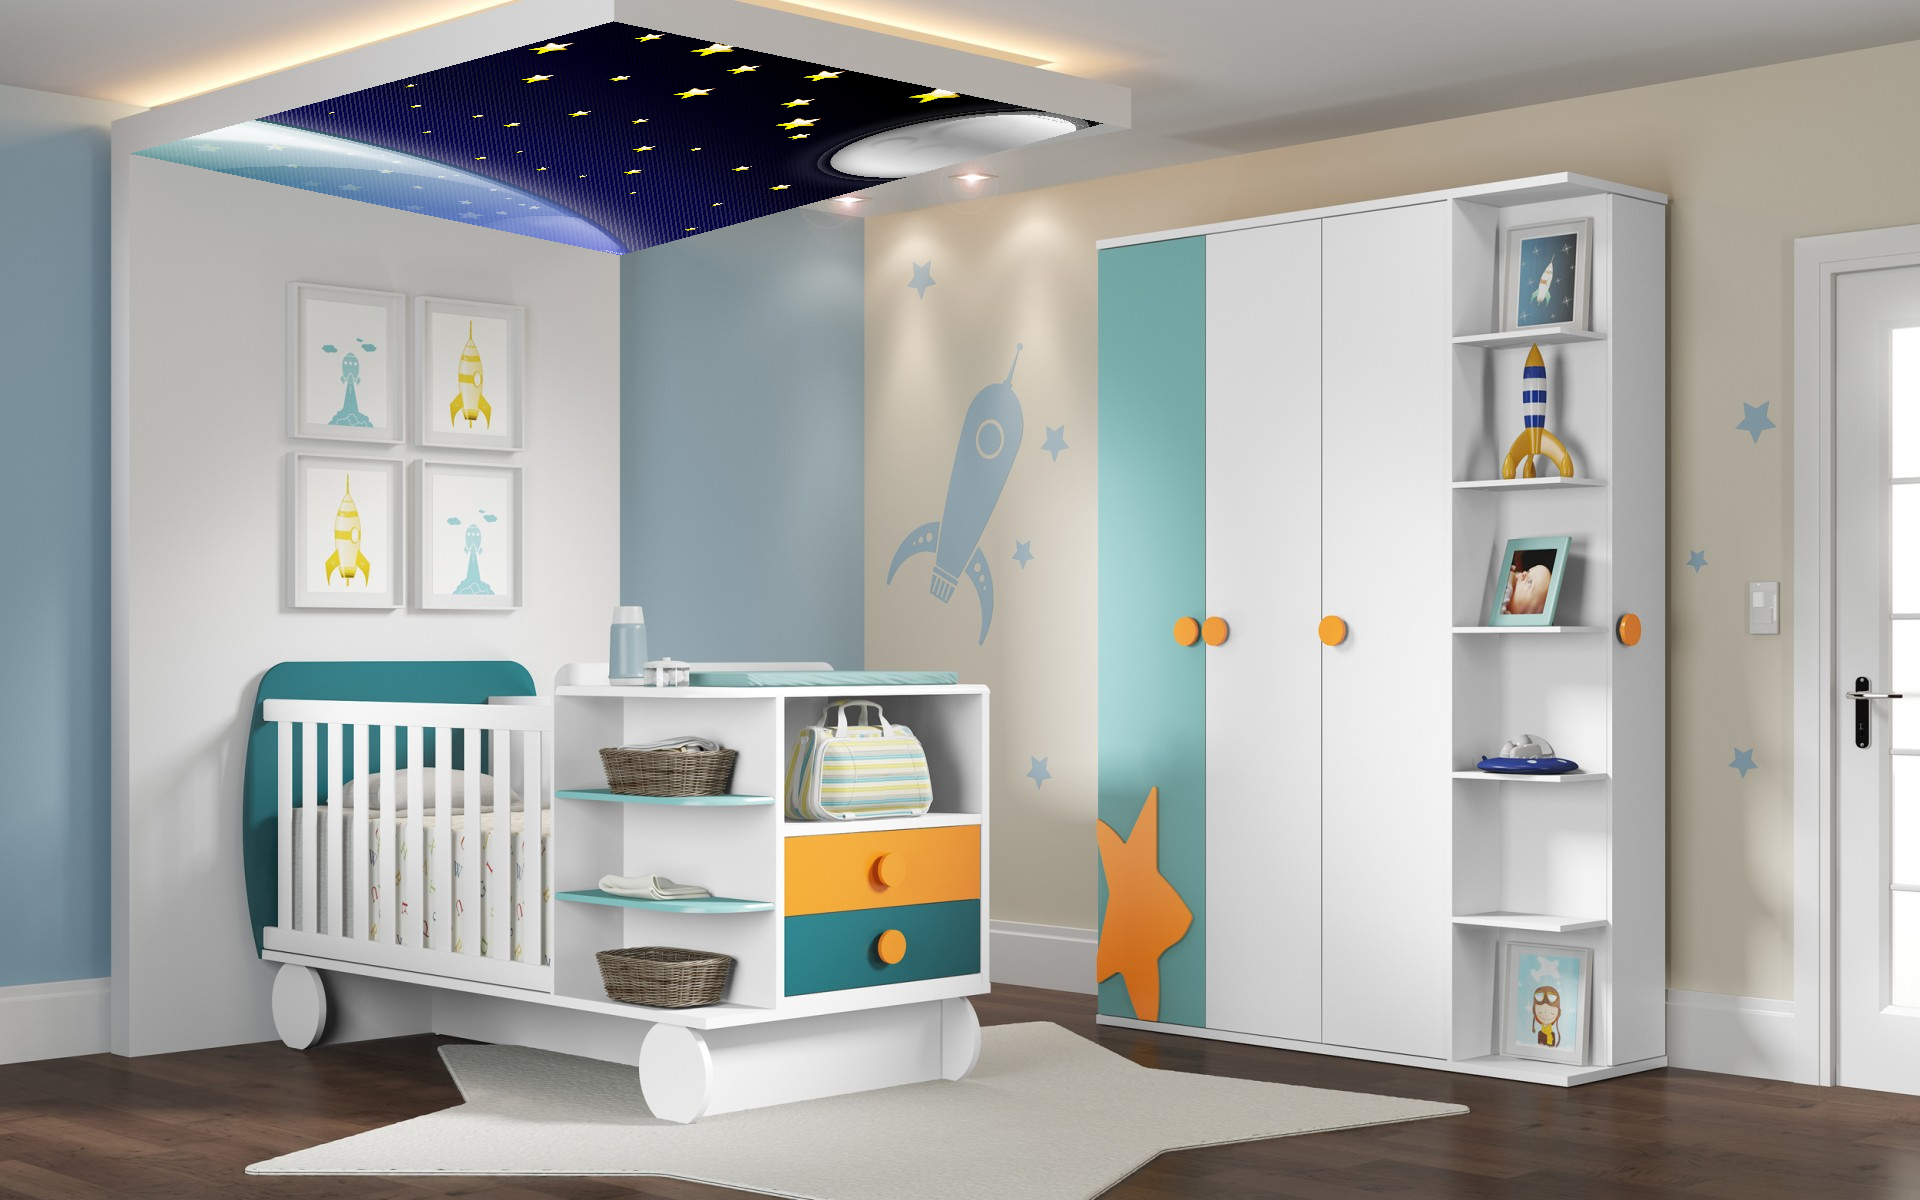
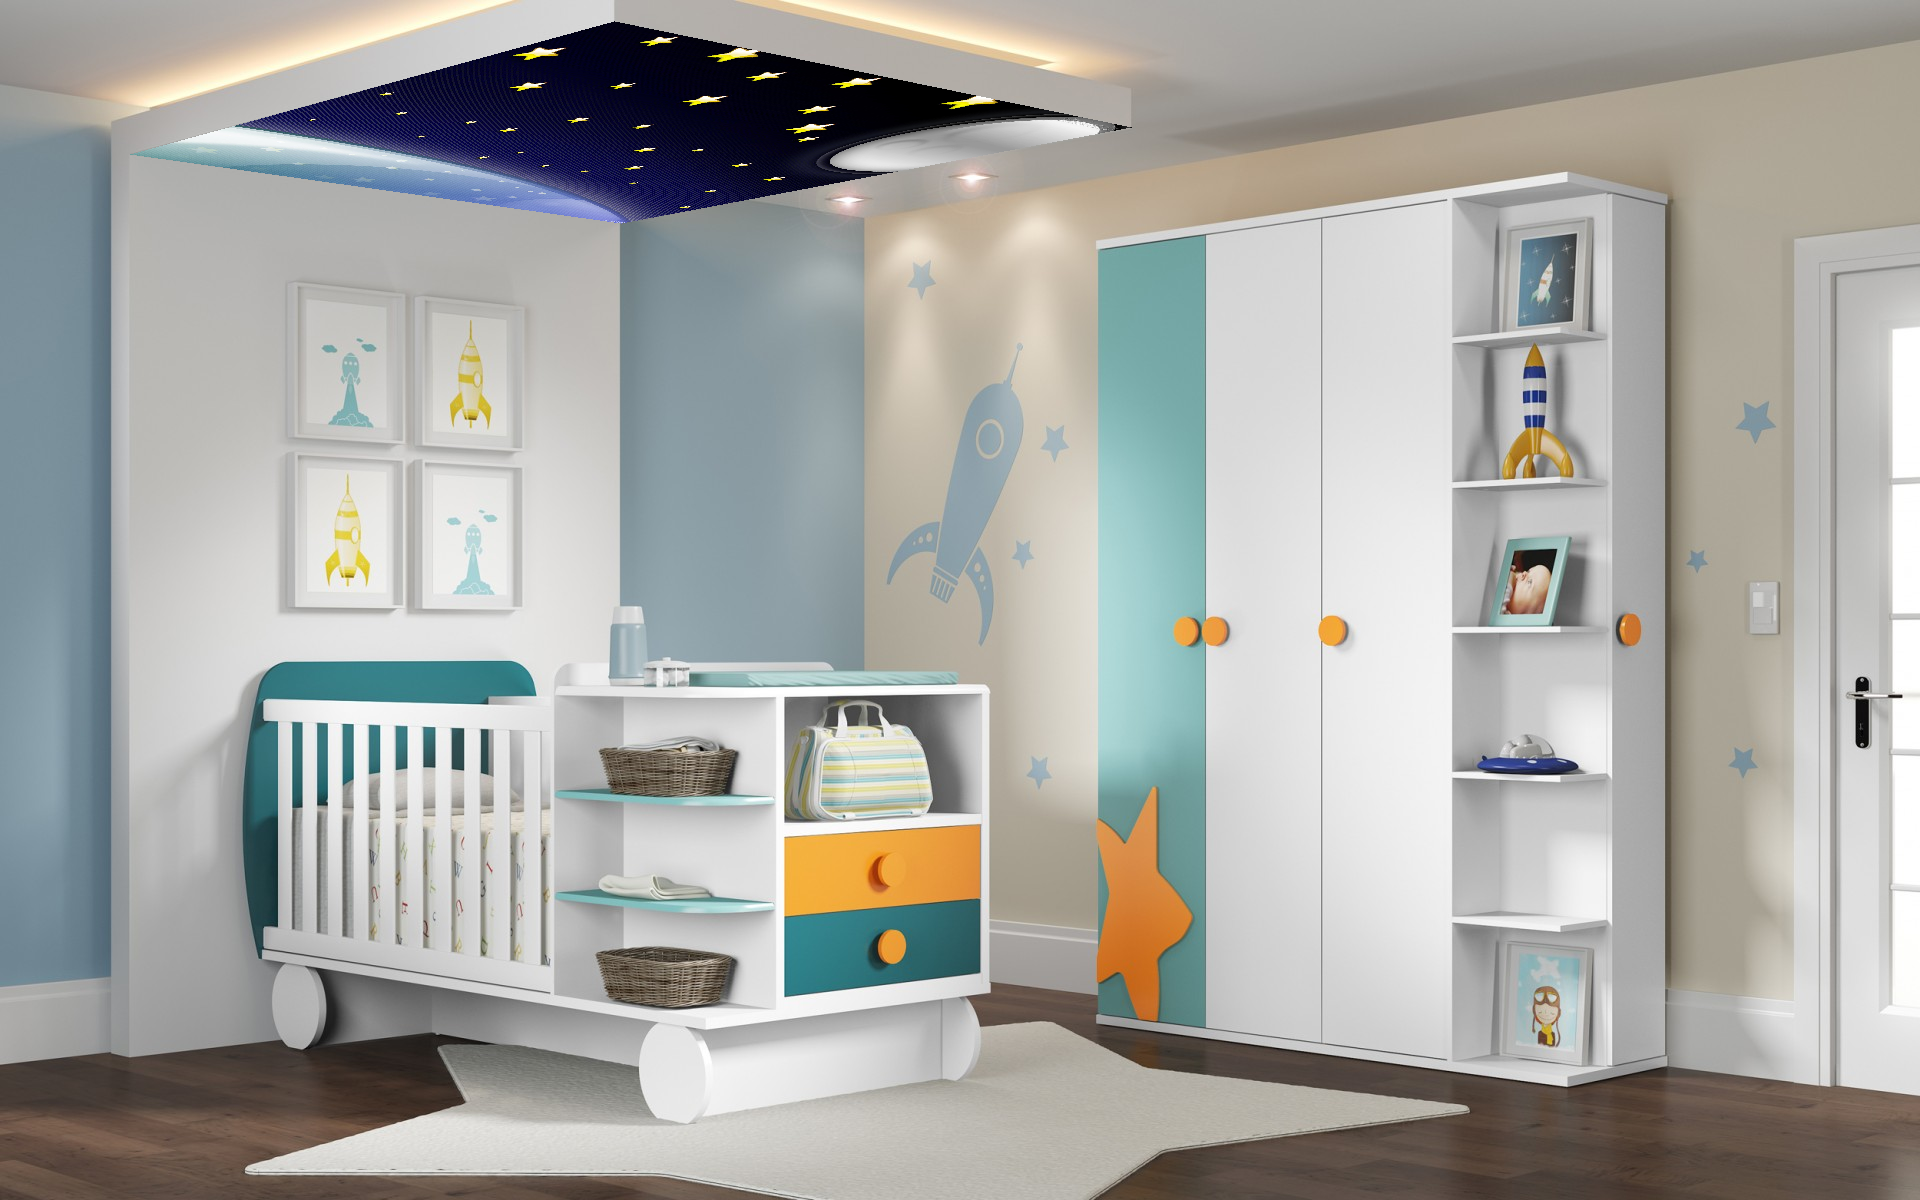
Finish

diff --git a/TrabalhoCP2/src/project2/ImageProjection.java b/TrabalhoCP2/src/project2/ImageProjection.java
@@ -11,8 +11,8 @@ import javax.imageio.ImageIO;
 public class ImageProjection {
 
 	// Matriz H
-	double H[][] = { { 2.22466114, 8.1400554, -1534.6279626 }, { -1.0739857, 5.1610979, 549.9701671 },
-			{ 0.0000087, -0.0021036, 1.3207161 } };
+	double H[][] = { { 2.233277493, 8.12711509, -1541.9018 }, { -1.058543289, 5.1628951, 541.5247824 },
+			{ -0.000002324, -0.0019598, 1.302112209 } };
 
 	// images names
 	String originName = "Resources/Images/quarto-bebe.jpg";
@@ -27,6 +27,9 @@ public class ImageProjection {
 		result[2] = vector[0] * matrixH[2][0] + vector[1] * matrixH[2][1]
 				+ vector[2] * matrixH[2][2];
 
+		result[0] = result[0]/result[2];
+		result[1] = result[1]/result[2];
+		
 		return result;
 	}
 
